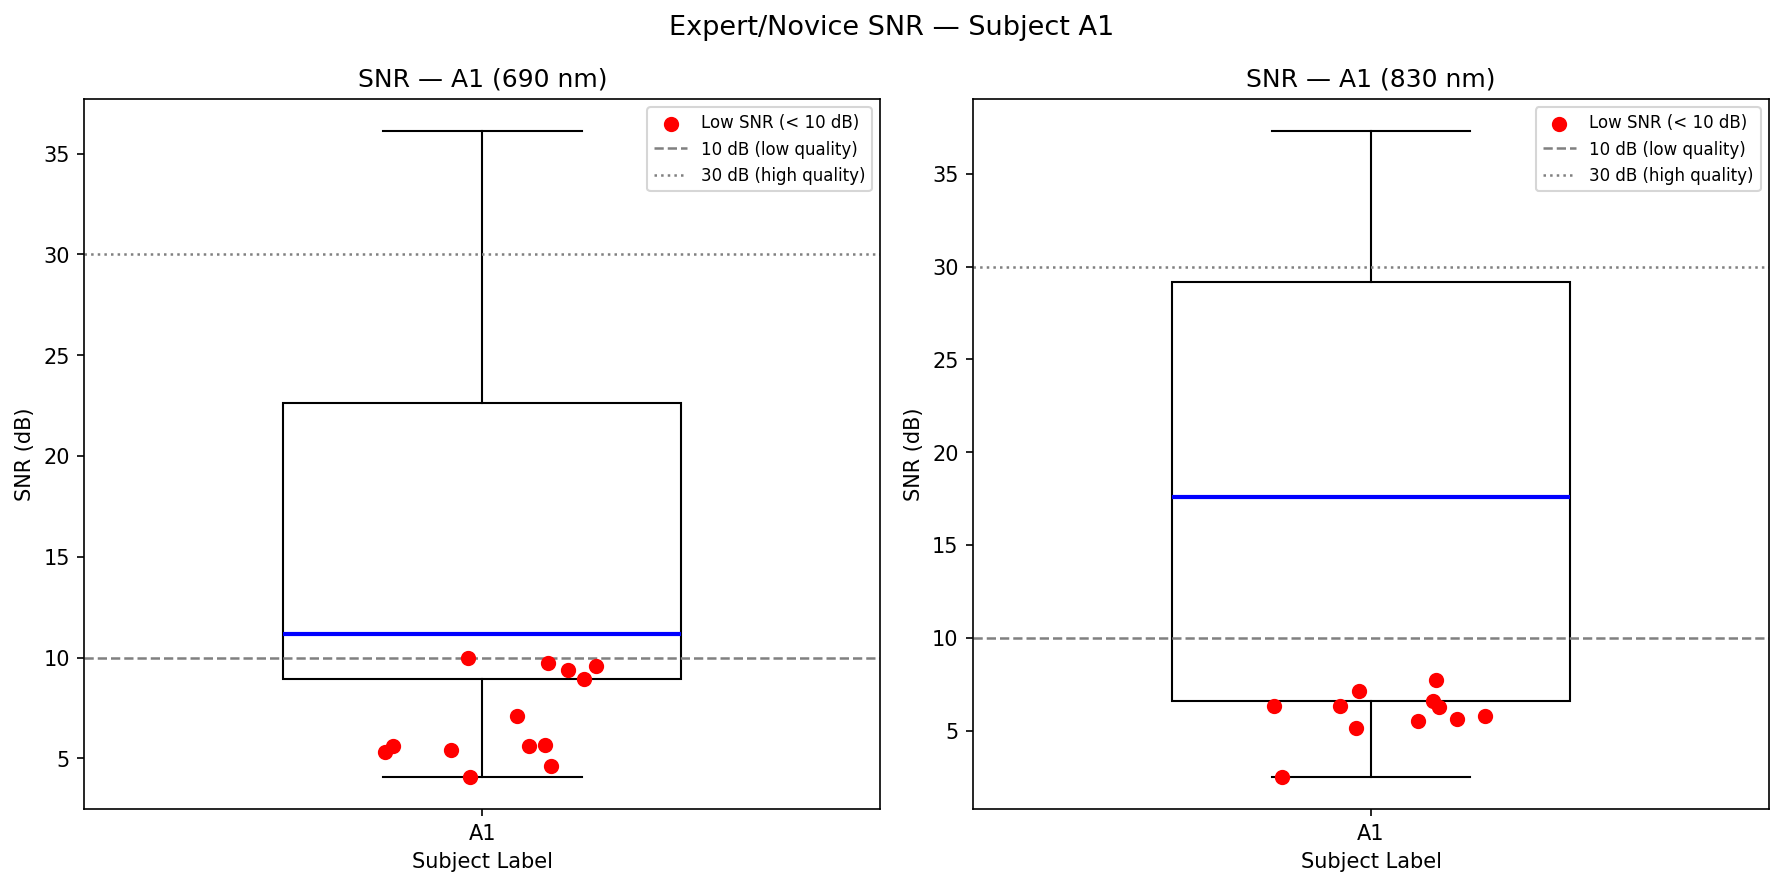
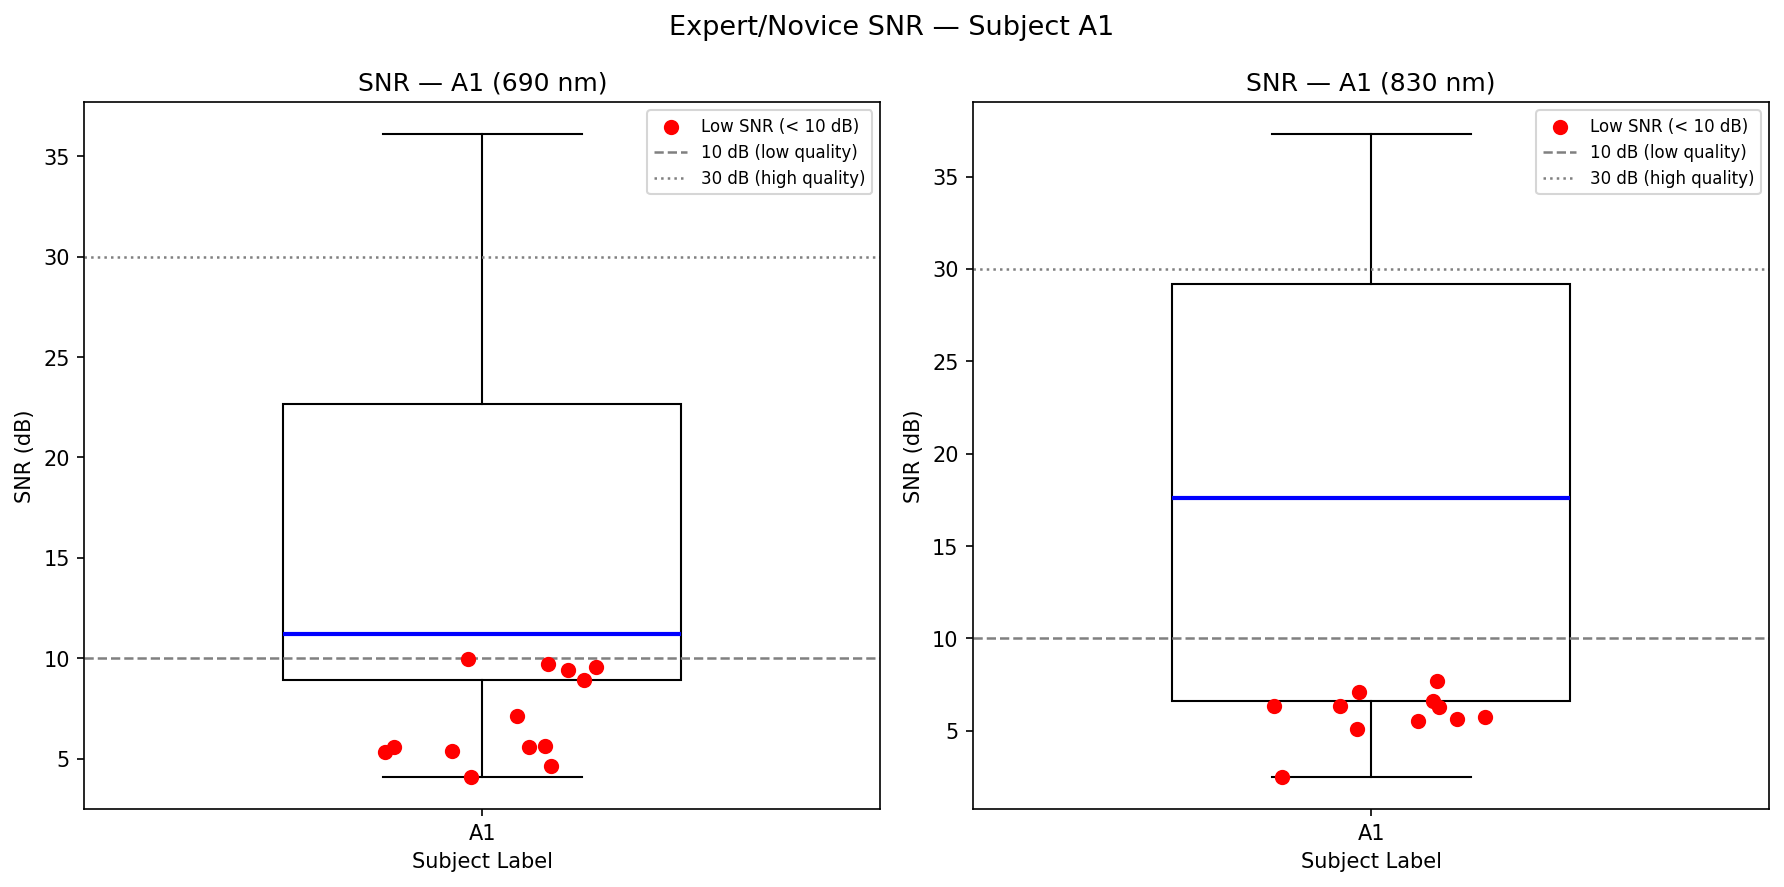
Finish logging and validating subtasks 2.4.2 to 2.4.5 (the previous commit already implemented the subtasks)

diff --git a/code/stage_a_raw_qa/07_generate_qa_report.py b/code/stage_a_raw_qa/07_generate_qa_report.py
@@ -449,7 +449,8 @@ def plot_motion_boxplot(
         ax.set_xlabel('Subject Label')
         ax.set_ylabel('Motion Ratio')
         ax.set_title(f'Motion Ratio — {subject_id} ({wl} nm)')
-        ax.legend(fontsize=8, loc='upper right')
+        if len(elev) > 0:
+            ax.legend(fontsize=8, loc='upper right')
 
         if verbose:
             n_total = len(wl_df)
@@ -609,8 +610,22 @@ def save_summary_statistics(
     """Save summary statistics dict as JSON."""
     output_dir.mkdir(parents=True, exist_ok=True)
     out_path = output_dir / f"{subject_id}_qa_summary.json"
+
+    def _make_serializable(obj):
+        """Recursively convert numpy scalar keys/values to native Python types."""
+        if isinstance(obj, dict):
+            return {
+                (int(k) if hasattr(k, 'item') else k): _make_serializable(v)
+                for k, v in obj.items()
+            }
+        if isinstance(obj, list):
+            return [_make_serializable(v) for v in obj]
+        if hasattr(obj, 'item'):   # numpy scalar
+            return obj.item()
+        return obj
+
     with open(out_path, 'w') as f:
-        json.dump(summary, f, indent=2)
+        json.dump(_make_serializable(summary), f, indent=2)
     print(f"  Summary statistics saved: {out_path}")
     return out_path
 

diff --git a/PROGRESS.md b/PROGRESS.md
@@ -186,12 +186,12 @@ elif system == "NIRx":
 - [x] **2.3.4** (2026-01-19) Calculate motion ratio as (flagged_samples / total_samples) per channel
 - [x] **2.3.5** (2026-01-19) Test motion detection on subject A1 and verify results are reasonable (~0 median for A1 from Fig 4)
 
-#### 2.4 QA Report Generation (Step A4)
+#### 2.4 QA Report Generation (Step A4) ✅ COMPLETE
 - [x] **2.4.1** (2026-02-17) Create comprehensive metrics DataFrame combining SNR, motion ratio, QA quality flags — saved A1_qa_metrics.csv (66 channels, 13 cols: snr_db, motion_ratio, snr_quality_flag, motion_quality_flag, qa_note; 33 acceptable / 24 low / 9 high SNR; 0 excluded — all channels retained for QA transparency)
-- [ ] **2.4.2** Implement SNR box plot visualization (white bars, red for bad channels, lower expected threshold lines at ~10 dB low quality, higher expected threshold lines at ~30 dB high quality)
-- [ ] **2.4.3** Implement motion ratio box plot visualization
-- [ ] **2.4.4** Create summary statistics calculator and console report generator
-- [ ] **2.4.5** Generate complete Stage A report for subject A1 and verify plots look similar to Figure 4
+- [x] **2.4.2** (2026-02-17) Implement SNR box plot visualization — white boxes, blue median line, red + outliers, dashed threshold lines at 10 dB (low) and 30 dB (high); saved A1_snr_boxplot.png; 690 nm median=11.2 dB range=[4.1,36.1], 830 nm median=17.6 dB range=[2.5,37.3]
+- [x] **2.4.3** (2026-02-17) Implement motion ratio box plot visualization — white boxes, blue median, red + outliers; saved A1_motion_boxplot.png; 690 nm median=0.000 range=[0.000,0.017], 830 nm median=0.000 range=[0.000,0.011]; 0 elevated channels (all motion ~0 as expected for A1)
+- [x] **2.4.4** (2026-02-17) Summary statistics calculator and console report generator — saved A1_qa_summary.json; SNR mean=17.17 dB median=16.01 dB range=[2.50,37.30]; MR median=0.000 (0%); fixed numpy int64 JSON serialization and empty-legend warning
+- [x] **2.4.5** (2026-02-17) Generate complete Stage A report for subject A1 — generate_stage_a_report() orchestrates all sub-tasks end-to-end; all 4 output files confirmed (A1_qa_metrics.csv, A1_snr_boxplot.png, A1_motion_boxplot.png, A1_qa_summary.json); verified vs Figure 4: SNR median=16.01 dB range=[2.50,37.30] IQR=[7.11,26.71] ✓ matches A1 box in Fig 4a; MR median=0.000 max=0.017 ✓ matches A1 ~0 in Fig 4b
 
 #### 2.5 Signal Amplitude Assessment (for Stage B exclusion)
 - [ ] **2.5.1** Calculate signal amplitude in dB for all channels (this is separate from SNR)
